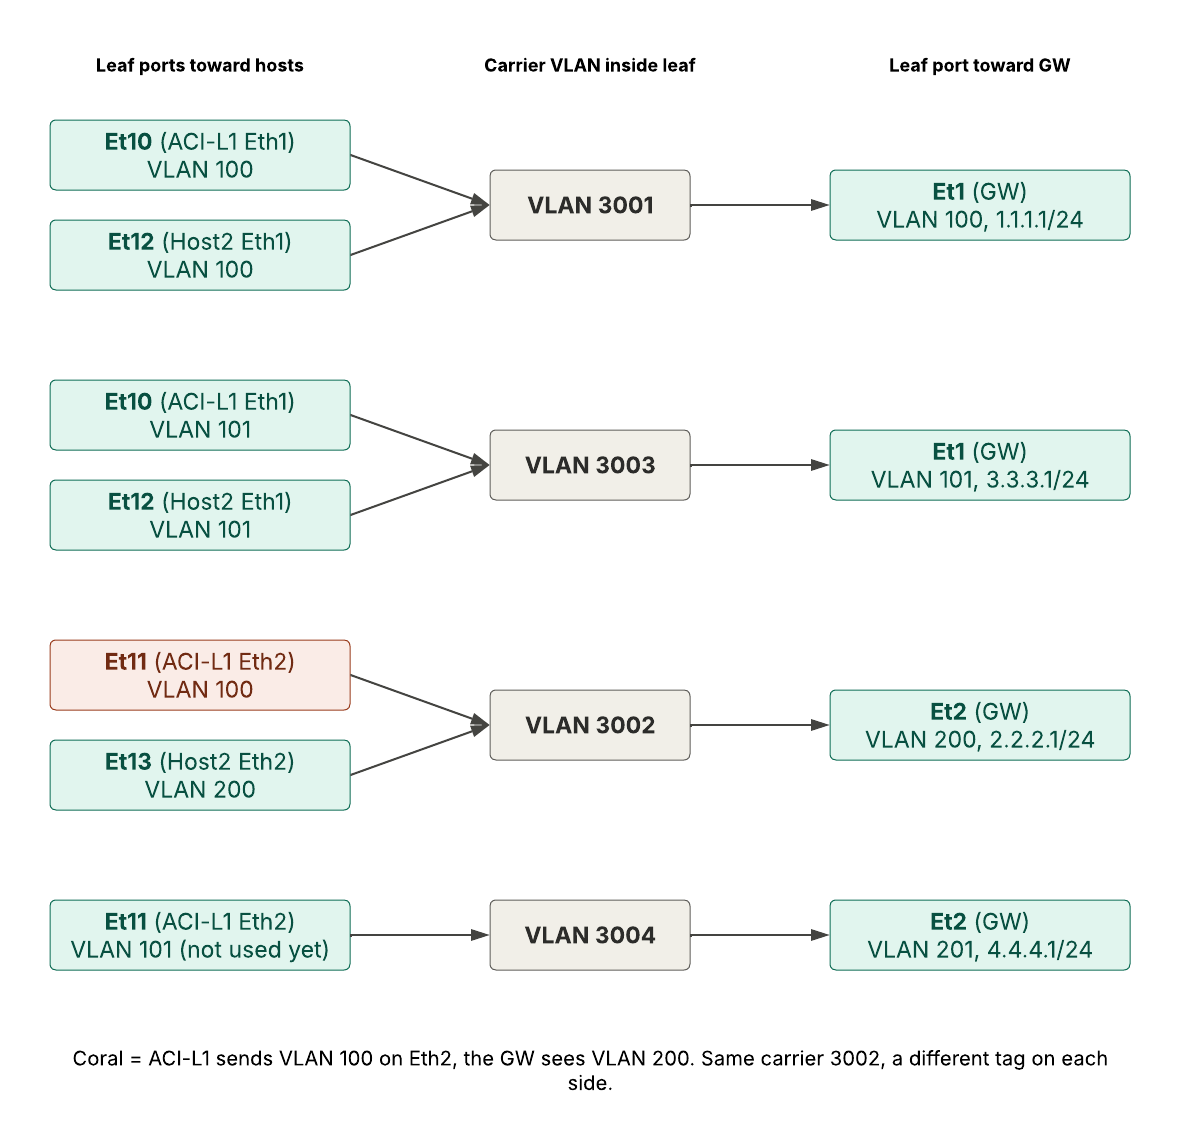
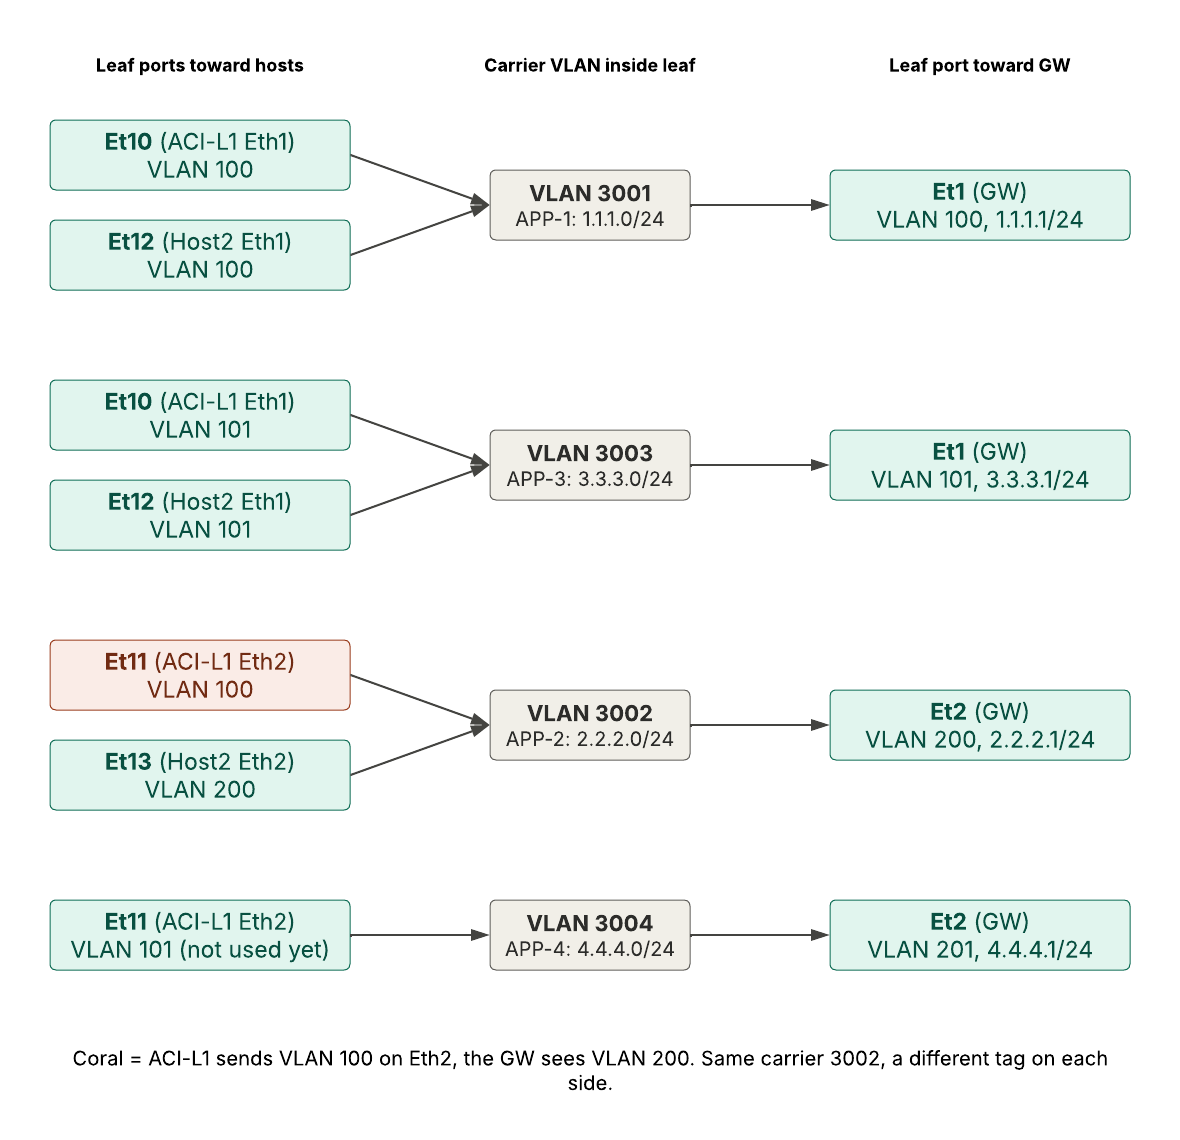
pvlan-sw: add application to subnet mapping (APP-1 to APP-4) to ACI example and diagrams
Claude-Session: https://claude.ai/code/session_01FdATFcuqPP7GwvvmwfoGLn

diff --git a/pvlan-sw/ACI-example.md b/pvlan-sw/ACI-example.md
@@ -4,7 +4,8 @@ This lab uses two `pvlan-sw` containers as ACI style endpoints. Both hosts conne
 
 - a host port that carries **several VLANs** (a trunk), each VLAN with its own IP,
 - a host whose two ports are **isolated** from each other, and
-- a leaf that moves the traffic **without ever creating the customer VLANs** (100, 101, 200, 201) in its own VLAN database.
+- a leaf that moves the traffic **without ever creating the customer VLANs** (100, 101, 200, 201) in its own VLAN database, and
+- **the same VLAN number used by different applications**, like Cisco ACI does when two apps share a VLAN ID on different ports.
 
 For the full command list and troubleshooting, see [README.md](README.md).
 
@@ -23,16 +24,29 @@ For the full command list and troubleshooting, see [README.md](README.md).
 
 In the diagram every host port is shown as a physical interface with the VLANs it carries. The Linux bridge that `pvlan-sw` uses internally is not drawn, so you only see ports, VLANs and IPs.
 
-| Device | Port | VLANs | IP addresses |
+| Device | Port | VLANs | IP addresses (application) |
 | --- | --- | --- | --- |
-| ACI-L1 | Eth1 (trunk) | 100, 101 | 1.1.1.10/24 on VLAN 100, 3.3.3.10/24 on VLAN 101 |
-| ACI-L1 | Eth2 (trunk) | 100 | 2.2.2.10/24 on VLAN 100 |
-| Host2 | Eth1 (trunk) | 100, 101 | 1.1.1.11/24 on VLAN 100, 3.3.3.11/24 on VLAN 101 |
-| Host2 | Eth2 (trunk) | 200 | 2.2.2.11/24 on VLAN 200 |
-| GW | Et1 (trunk) | 100, 101 | 1.1.1.1/24 on VLAN 100, 3.3.3.1/24 on VLAN 101 |
-| GW | Et2 (trunk) | 200, 201 | 2.2.2.1/24 on VLAN 200, 4.4.4.1/24 on VLAN 201 |
+| ACI-L1 | Eth1 (trunk) | 100, 101 | 1.1.1.10/24 on VLAN 100 (APP-1), 3.3.3.10/24 on VLAN 101 (APP-3) |
+| ACI-L1 | Eth2 (trunk) | 100 | 2.2.2.10/24 on VLAN 100 (APP-2) |
+| Host2 | Eth1 (trunk) | 100, 101 | 1.1.1.11/24 on VLAN 100 (APP-1), 3.3.3.11/24 on VLAN 101 (APP-3) |
+| Host2 | Eth2 (trunk) | 200 | 2.2.2.11/24 on VLAN 200 (APP-2) |
+| GW | Et1 (trunk) | 100, 101 | 1.1.1.1/24 on VLAN 100 (APP-1), 3.3.3.1/24 on VLAN 101 (APP-3) |
+| GW | Et2 (trunk) | 200, 201 | 2.2.2.1/24 on VLAN 200 (APP-2), 4.4.4.1/24 on VLAN 201 (APP-4) |
 
-ACI-L1 sends VLAN 100 on **both** of its ports, but the two ports end up in different gateway VLANs (100 and 200). That is the ACI style part: the VLAN number on the host does not have to match the VLAN number on the gateway.
+ACI-L1 sends VLAN 100 on **both** of its ports, but they carry different applications (APP-1 and APP-2) and end up in different gateway VLANs (100 and 200). That is the ACI style part: the VLAN number on the host does not have to match the VLAN number on the gateway.
+
+### Applications and subnets
+
+Each application owns one subnet. The VLAN number is only a tag on a port. The subnet tells you which application the traffic belongs to.
+
+| Application | Subnet | GW VLAN | Carrier VLAN | Where it appears |
+| --- | --- | --- | --- | --- |
+| APP-1 | 1.1.1.0/24 | 100 | 3001 | ACI-L1 Eth1 VLAN 100, Host2 Eth1 VLAN 100 |
+| APP-2 | 2.2.2.0/24 | 200 | 3002 | ACI-L1 Eth2 VLAN 100, Host2 Eth2 VLAN 200 |
+| APP-3 | 3.3.3.0/24 | 101 | 3003 | ACI-L1 Eth1 VLAN 101, Host2 Eth1 VLAN 101 |
+| APP-4 | 4.4.4.0/24 | 201 | 3004 | ACI-L1 Eth2 VLAN 101 (not used yet) |
+
+**APP-1 and APP-2 both use VLAN 100 on ACI-L1.** They are told apart by the port: Eth1 carries APP-1 and Eth2 carries APP-2. On the gateway they become VLAN 100 and VLAN 200. This is the ACI behavior the lab reproduces: one VLAN ID, several applications, and the fabric (here the leaf) keeps them apart.
 
 ### Topology file
 
@@ -132,12 +146,12 @@ The leaf does not create VLAN 100, 101, 200 or 201. It uses **carrier VLANs** (3
 
 ![Carrier VLANs inside LEAF1A: which leaf ports meet in which carrier VLAN](images/aci-example-carrier-vlans.png)
 
-| Carrier VLAN | Host side | GW side | What it connects |
-| --- | --- | --- | --- |
-| 3001 | Et10 VLAN 100 (ACI-L1 Eth1), Et12 VLAN 100 (Host2 Eth1) | Et1 VLAN 100 | The 1.1.1.0/24 network |
-| 3003 | Et10 VLAN 101 (ACI-L1 Eth1), Et12 VLAN 101 (Host2 Eth1) | Et1 VLAN 101 | The 3.3.3.0/24 network |
-| 3002 | Et11 VLAN 100 (ACI-L1 Eth2), Et13 VLAN 200 (Host2 Eth2) | Et2 VLAN 200 | The 2.2.2.0/24 network. ACI-L1 sends VLAN 100, the GW sees VLAN 200. |
-| 3004 | Et11 VLAN 101 (ACI-L1 Eth2, not used yet) | Et2 VLAN 201 | The 4.4.4.0/24 network |
+| Carrier VLAN | Application | Host side | GW side | What it connects |
+| --- | --- | --- | --- | --- |
+| 3001 | APP-1 | Et10 VLAN 100 (ACI-L1 Eth1), Et12 VLAN 100 (Host2 Eth1) | Et1 VLAN 100 | 1.1.1.0/24 |
+| 3003 | APP-3 | Et10 VLAN 101 (ACI-L1 Eth1), Et12 VLAN 101 (Host2 Eth1) | Et1 VLAN 101 | 3.3.3.0/24 |
+| 3002 | APP-2 | Et11 VLAN 100 (ACI-L1 Eth2), Et13 VLAN 200 (Host2 Eth2) | Et2 VLAN 200 | 2.2.2.0/24. ACI-L1 sends VLAN 100, the GW sees VLAN 200. |
+| 3004 | APP-4 | Et11 VLAN 101 (ACI-L1 Eth2, not used yet) | Et2 VLAN 201 | 4.4.4.0/24 |
 
 The leaf uses two techniques.
 
